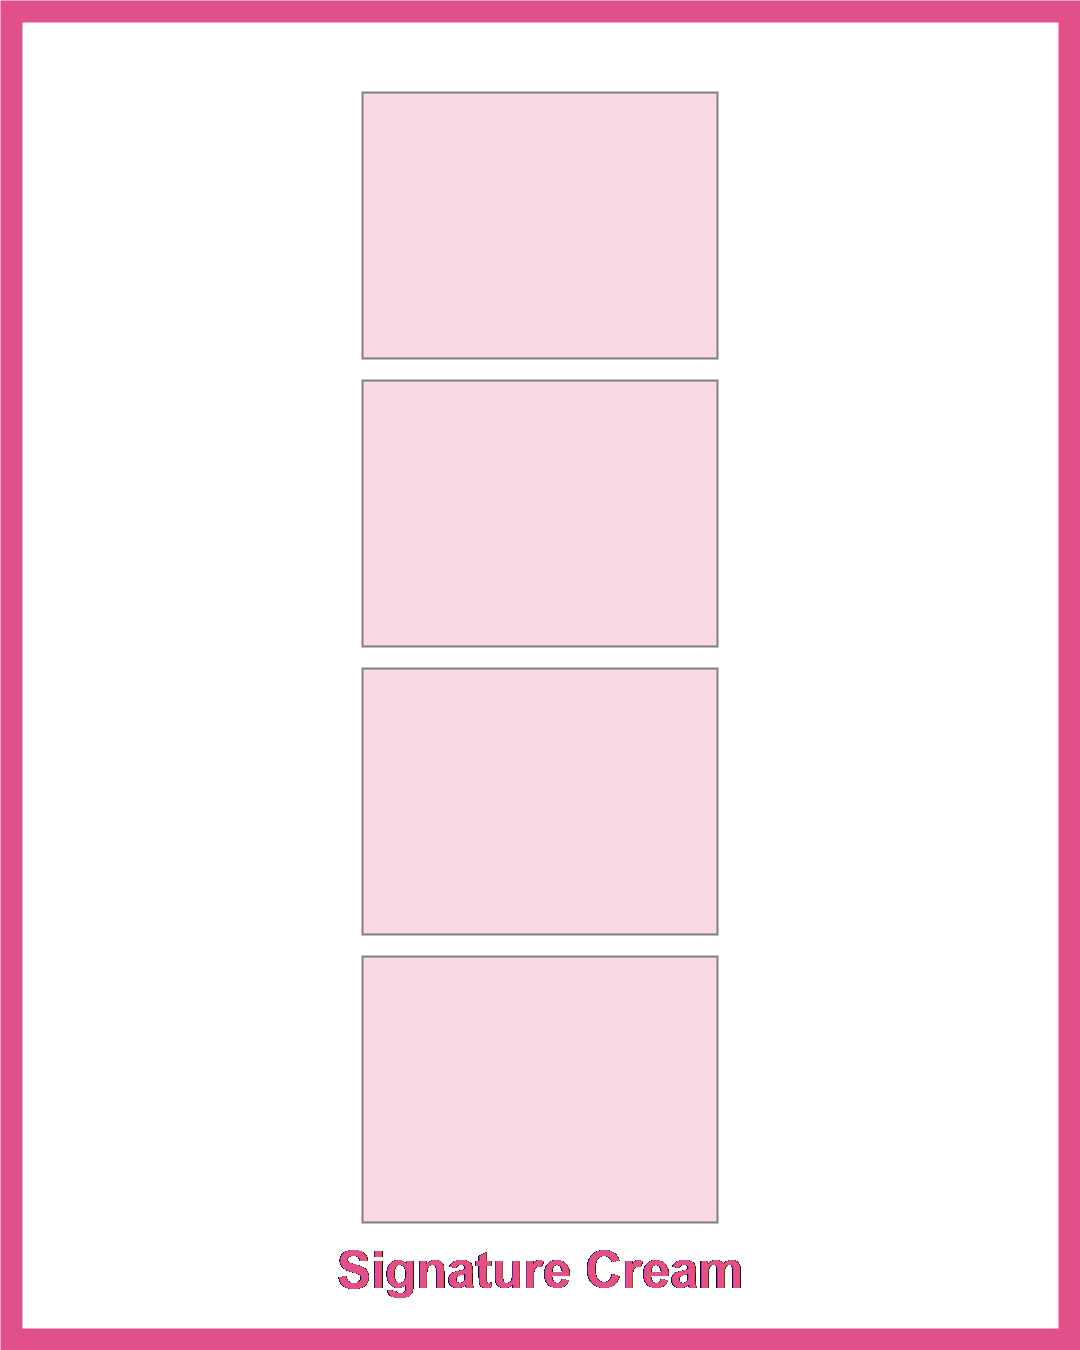
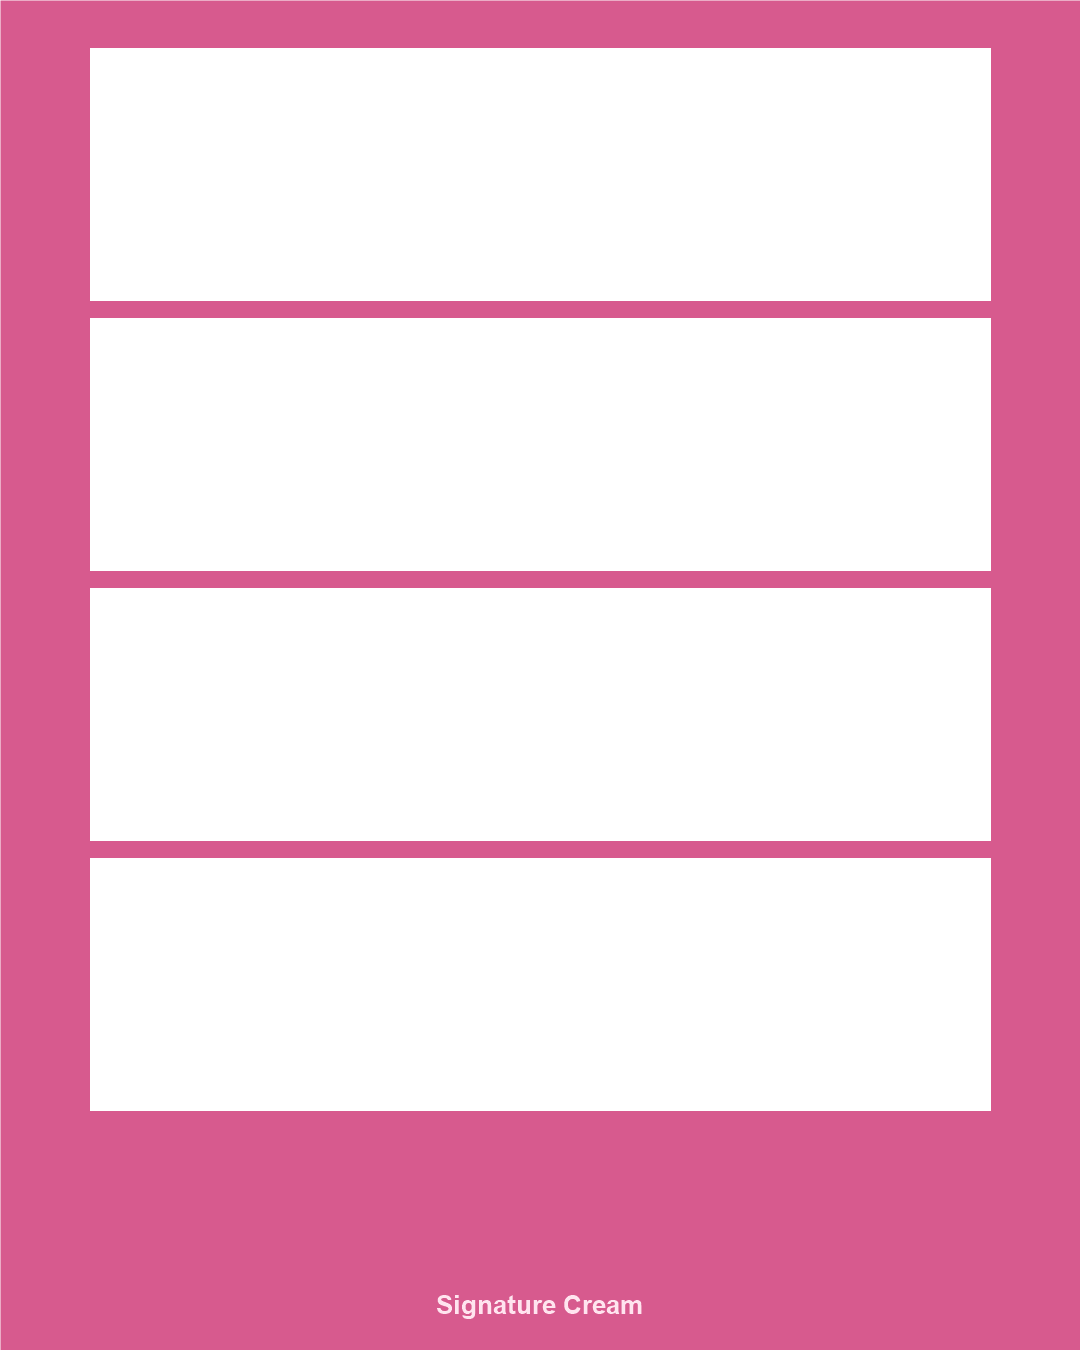
Adjust frame layout sizing

diff --git a/src/lib/canvasRender.ts b/src/lib/canvasRender.ts
@@ -35,21 +35,21 @@ type TemplateLayout = {
 function getTemplateLayout(templateId: string): TemplateLayout {
   if (templateId === "signature") {
     return {
-      backdropInsetX: 150,
-      backdropInsetY: 6,
-      backdropRadius: 56,
-      panelInsetX: 165,
-      panelInsetY: 10,
-      panelRadius: 52,
+      backdropInsetX: 24,
+      backdropInsetY: 18,
+      backdropRadius: 44,
+      panelInsetX: 36,
+      panelInsetY: 24,
+      panelRadius: 38,
       panelBorderWidth: 14,
       panelFill: "#E9E1D7",
       panelBorder: "#D75A8E",
-      slotTop: 86,
-      slotWidth: 510,
-      slotHeight: 272,
-      slotGap: 22,
-      watermarkWidth: 132,
-      watermarkBottom: 34,
+      slotTop: 48,
+      slotWidth: 900,
+      slotHeight: 252,
+      slotGap: 18,
+      watermarkWidth: 176,
+      watermarkBottom: 44,
     };
   }
 
@@ -63,12 +63,12 @@ function getTemplateLayout(templateId: string): TemplateLayout {
     panelBorderWidth: 0,
     panelFill: "",
     panelBorder: "",
-    slotTop: 92,
-    slotWidth: 355,
-    slotHeight: 266,
-    slotGap: 22,
+    slotTop: 48,
+    slotWidth: 900,
+    slotHeight: 252,
+    slotGap: 18,
     watermarkWidth: 190,
-    watermarkBottom: 32,
+    watermarkBottom: 44,
   };
 }
 
@@ -171,6 +171,8 @@ export async function renderPhotoboothImage(options: RenderOptions): Promise<Blo
       panelHeight,
       Math.round(layout.panelRadius * scaleX),
     );
+    ctx.fillStyle = layout.panelFill;
+    ctx.fill();
     ctx.lineWidth = Math.max(4, Math.round(layout.panelBorderWidth * scaleX));
     ctx.strokeStyle = layout.panelBorder;
     ctx.stroke();
